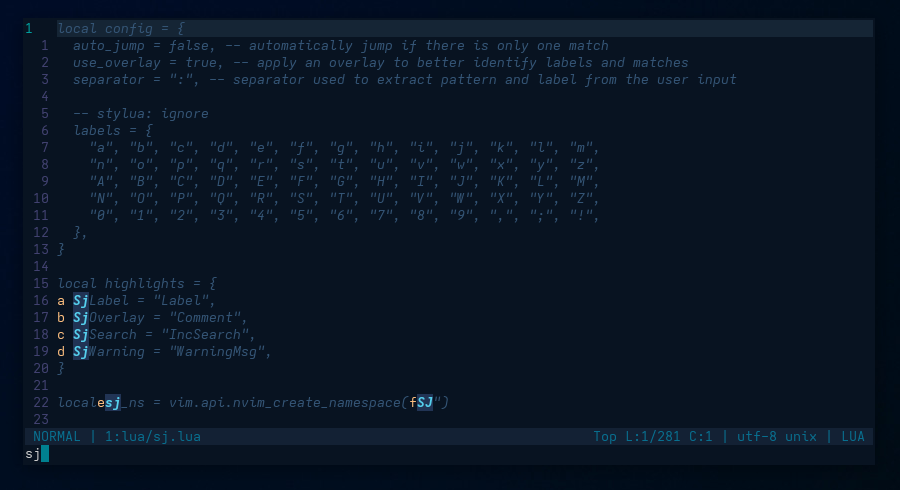
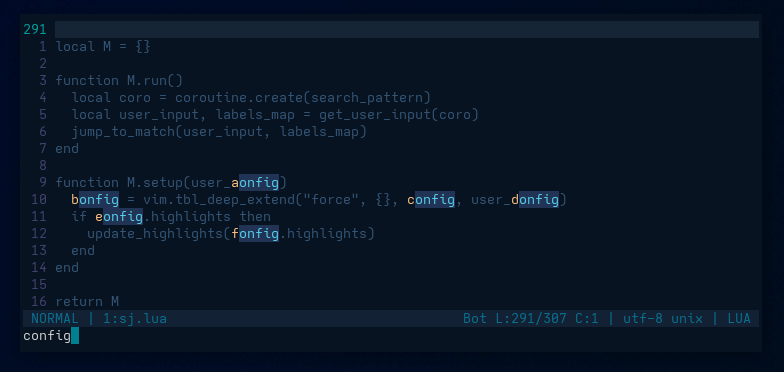
Update the README and the screenshot

Changed region(s): [[0.0306, 0.0296, 0.7347, 0.9462], [0.2449, 0.0887, 0.8265, 0.1774], [0.5816, 0.828, 0.9796, 0.9167]]

diff --git a/README.md b/README.md
@@ -34,14 +34,14 @@ To do so, use a keymap ([Configuration](#configuration)) and type a pattern.
 As soon as you use the keymap and start typing the pattern :
 
 - the highights in the buffer will change ;
-- all matches will be highlighted and prefixed with a label ;
+- all matches will be highlighted and will have a label assigned to them ;
 - the current pattern is displayed in the command line.
 
 Now you can :
 
-- jump to the first match by pressing the `<Enter>` key ;
-- jump to any matches by typing `:` and the label prefixing the match ;
-- delete previous characters by pressing `<Control-h>` ;
+- jump to the first match by pressing the `<Enter>` key or `<C-j>` ;
+- jump to any matches by typing `:`, then the label assigned to the match ;
+- delete previous characters by pressing `<Backspace>` or `<Control-h>` ;
 - delete the pattern by pressing `<Control-u>` ;
 - cancel everything by pressing the `<Escape>` key.
 
@@ -61,6 +61,7 @@ local config = {
 	auto_jump = false, -- automatically jump if there is only one match
 	use_overlay = true, -- apply an overlay to better identify labels and matches
 	separator = ":", -- separator used to extract pattern and label from the user input
+	label_as_prefix = false, -- if true, the label will be positioned before the match
 
 	-- stylua: ignore
 	labels = {
@@ -83,7 +84,7 @@ sj.setup({
 	-- help to better identify labels and matches
 	use_overlay = true,
 	highlights = {
-		-- used for the label before matches
+		-- used for the labels
 		SjLabel = { bold = false },
 		-- used for everything that is not a match
 		SjOverlay = { bold = false, italic = false },
@@ -123,5 +124,6 @@ This plugin is fairly new and some things might change in the next days or weeks
 
 Right now :
 
-- I don't know how to catch the `<Backspace>` key, hence the `<Control-h>` ;
-- If a match is at the beginning of an indentend line, there is an offset of the label.
+- ~~I don't know how to catch the `<Backspace>` key, hence the `<Control-h>`~~ modified by [e18ae614](https://github.com/woosaaahh/sj.nvim/commit/e18ae6141113a12c58c7d396dc995966bb1af28f) ;
+- ~~If a match is at the beginning of an indentend line, there is an offset of the
+  label~~ modified by [90b7b99b](https://github.com/woosaaahh/sj.nvim/commit/90b7b99becb5e9fcd1e9cdd03ee4b4f8ce4851db).
